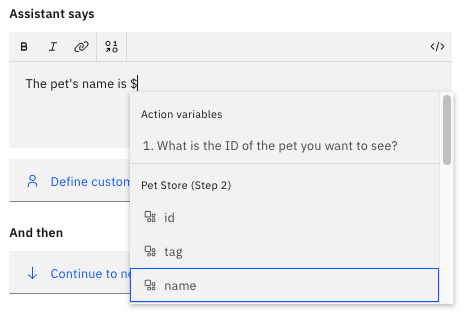
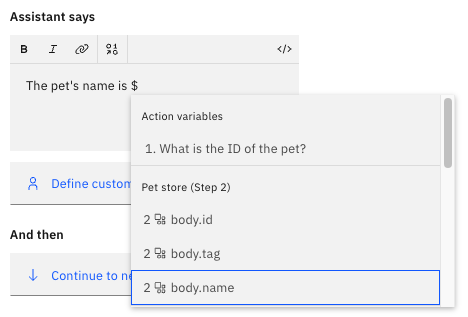
revise "call extension"

diff --git a/call-extension.md b/call-extension.md
@@ -2,7 +2,7 @@
 
 copyright:
   years: 2021
-lastupdated: "2022-02-17"
+lastupdated: "2022-03-01"
 
 subcollection: watson-assistant
 
@@ -67,7 +67,9 @@ To call a custom extension from an action:
     You cannot currently use an expression to specify a parameter value. If you need to use an expression, insert a step before you call the extension, and use that step to assign the expression to an action variable. You can then use the variable as the parameter value.
     {: note}
 
-1. If you want to specify a value for an optional parameter, click **Optional parameters** and select the parameter you want to specify. Repeat this process for each optional parameter you want to use.
+    You must specify values for all required parameters before you can proceed.
+
+1. If you want to specify a value for any optional parameters, click **Optional parameters** and then repeat this process for each optional parameter you want to use.
 
 1. Click **Apply**.
 
@@ -86,14 +88,14 @@ The following table shows the possible customer response types and the parameter
 
 | Customer response type | Compatible data types           | Notes |
 |------------------------|---------------------------------|-------|
-| _Options_              | `string`                        | The selected option is always treated as a string, even for numeric values. |
-| _Number_               | `number`\n`integer`             |       |
-| _Date_                 | `string`                        |       |
-| _Time_                 | `string`                        |       |
-| _Currency_             | `number`\n`integer`             |       |
-| _Percent_              | `number`\n`integer`             |       |
-| _Free text_            | `string`                        |       |
-| _Regex_                | `string`                        |       |
+| options                | `string`                        | A selected option is always treated as a string, even if it is a numeric value. |
+| number                 | `number`\n`integer`             | A floating-point number passed as the value for an `integer` parameter might cause an error, depending on the behavior of the REST API. |
+| date                   | `string`                        | Dates are rendered as `YYYY-MM-DD`. |
+| time                   | `string`                        | Times are rendered as `HH:MM:SS` in 24-hour format, converted to the user's time zone. |
+| Currency               | `number`\n`integer`             |       |
+| Percent                | `number`\n`integer`             | A percent value is passed as an integer (so `75%` becomes `75`). |
+| Free text              | `string`                        |       |
+| Regex                  | `string`                        |       |
 {: caption="Compatible response types for parameters" caption-side="top"}
 
 ## Accessing extension response data
@@ -101,9 +103,10 @@ The following table shows the possible customer response types and the parameter
 
 After you call an extension, values from the response data are stored in special action variables that you can access in subsequent steps.
 
-You can access the response variables in the same way you access other action variables. You can reference it in the **Assistant says** text, evaluate it as part of a step condition, or assign it to a session variable so other actions can access it.
+You can access these variables in the same way you access other action variables. You can reference it in the **Assistant says** text, evaluate it as part of a step condition, or assign it to a session variable so other actions can access it.
 
 The response variables are shown in the list of available actions, categorized under the name of the extension:
 
 ![Referencing a response variable](images/extension-reference-response.png)
 
+ Each variable represents an atomic value (such as a string or number) from the response body. This value might be a root property of the response body, or it might be part of an object nested within the response body. The name of each variable uses dot notation to show the the path to the property within the response body (for example, `body.name` or `customer.address.zipcode`).
